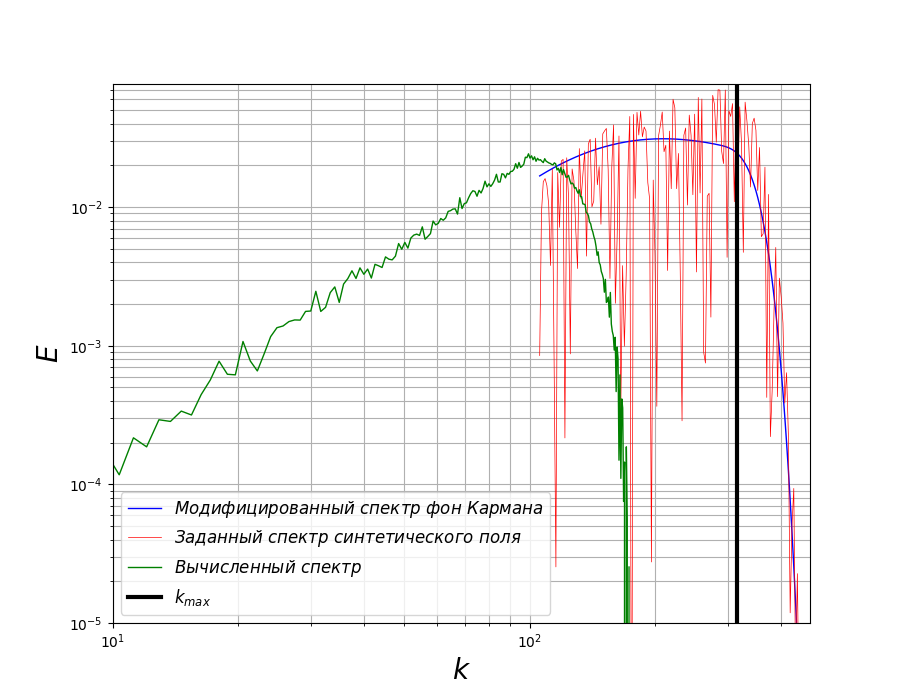
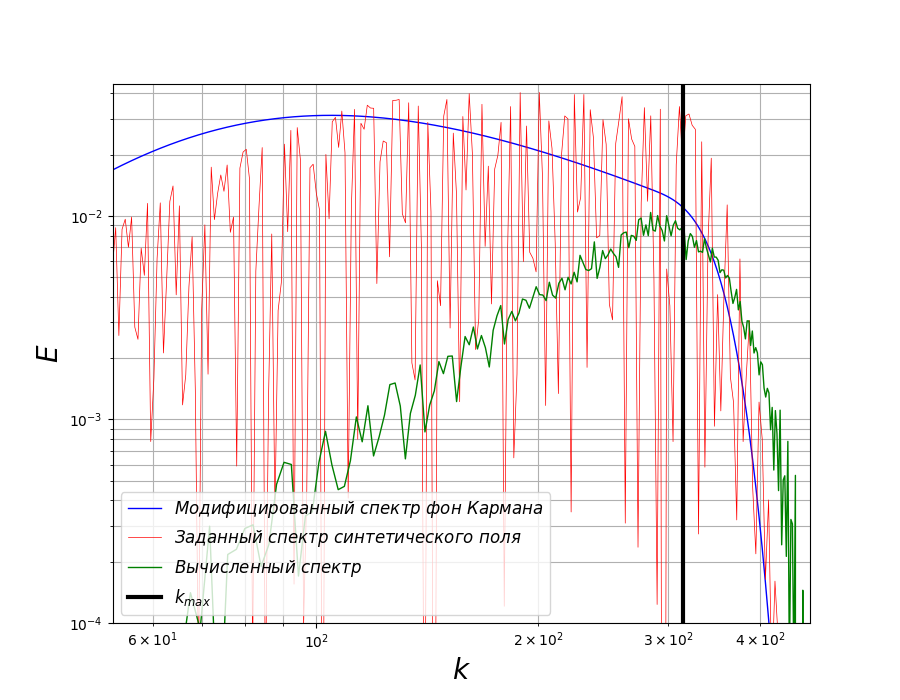
Correct wave number definition.

diff --git a/spectrum_lib.py b/spectrum_lib.py
@@ -3,8 +3,8 @@ from scipy.fftpack import fftn
 import logging
 import matplotlib.pyplot as plt
 import config
-from lib import get_k_arr, get_tau, get_von_karman_spectrum, get_amplitude_arr, get_d_vector_theta_and_phase, get_frequency, \
-    get_sigma_vector
+from lib import get_k_arr, get_tau, get_von_karman_spectrum, get_amplitude_arr, get_d_vector_theta_and_phase, \
+    get_frequency, get_sigma_vector
 
 logging.basicConfig(format='%(levelname)s: %(message)s', level=logging.DEBUG)
 
@@ -21,9 +21,9 @@ def read_velocity_file(filename):
 
 
 class SpatialSpectrum3d:
-    # TODO: разобраться с определением значений волновых чисел
     def __init__(self, i_cnt: int, j_cnt: int, k_cnt: int, grid_step: float, u_arr: np.ndarray,
-                 v_arr: np.ndarray, w_arr: np.ndarray, num_point: int):
+                 v_arr: np.ndarray, w_arr: np.ndarray, num_point: int, l_e: float =config.l_e,
+                 alpha: float = config.alpha):
         self.i_cnt = i_cnt
         self.j_cnt = j_cnt
         self.k_cnt = k_cnt
@@ -32,6 +32,9 @@ class SpatialSpectrum3d:
         self.v_arr = v_arr
         self.w_arr = w_arr
         self.num_point = num_point
+        self.l_e = l_e
+        self.alpha = alpha
+        self.l_cut = 2 * self.grid_step
         self.k_abs_arr = None
         self.energy_sum_arr = None
         self.energy_u_arr = None
@@ -44,7 +47,15 @@ class SpatialSpectrum3d:
         return result
 
     @classmethod
-    def _get_wave_number_array(cls, i_cnt: int, j_cnt: int, k_cnt: int, grid_step):
+    def _get_k_abs(cls, l_e: float, l_cut: float, alpha):
+        k_abs_arr = get_k_arr(l_e, l_cut, alpha)
+        k_abs_min = k_abs_arr.min()
+        k_abs_max = k_abs_arr.max()
+        return k_abs_min, k_abs_max
+
+    @classmethod
+    def _get_wave_number_array(cls, i_cnt: int, j_cnt: int, k_cnt: int, grid_step: float, k_abs_min: float,
+                               k_abs_max: float):
         logging.info('Wave number arrays calculating')
         x_size = grid_step * (i_cnt - 1)
         y_size = grid_step * (j_cnt - 1)
@@ -52,9 +63,14 @@ class SpatialSpectrum3d:
         result_i = np.zeros([k_cnt, j_cnt, i_cnt])
         result_j = np.zeros([k_cnt, j_cnt, i_cnt])
         result_k = np.zeros([k_cnt, j_cnt, i_cnt])
-        ki_arr = np.linspace(1 / x_size, 1 / grid_step, i_cnt)
-        kj_arr = np.linspace(1 / y_size, 1 / grid_step, j_cnt)
-        kk_arr = np.linspace(1 / z_size, 1 / grid_step, k_cnt)
+        k_max = k_abs_max / np.sqrt(3)
+        norm_coef = k_abs_min / np.sqrt(1 / x_size ** 2 + 1 / y_size ** 2 + 1 / z_size ** 2)
+        ki_min = norm_coef / x_size
+        kj_min = norm_coef / y_size
+        kk_min = norm_coef / z_size
+        ki_arr = np.linspace(ki_min, k_max, i_cnt)
+        kj_arr = np.linspace(kj_min, k_max, j_cnt)
+        kk_arr = np.linspace(kk_min, k_max, k_cnt)
         for k in range(k_cnt):
             for j in range(j_cnt):
                 for i in range(i_cnt):
@@ -66,7 +82,8 @@ class SpatialSpectrum3d:
     @classmethod
     def _get_energy(cls, k_abs_arr: np.ndarray, velocity_fourier_arr: np.ndarray,
                     wave_number_abs: float):
-        array_for_summation = 0.5 * (np.abs(velocity_fourier_arr) / len(velocity_fourier_arr) ** 3) ** 2
+        volume = velocity_fourier_arr.shape[0] * velocity_fourier_arr.shape[1] * velocity_fourier_arr.shape[2]
+        array_for_summation = 0.5 * (np.abs(velocity_fourier_arr) / volume) ** 2
         array_for_summation_filtered = np.abs(array_for_summation)[(k_abs_arr > wave_number_abs - 0.5) *
                                                                    (k_abs_arr < wave_number_abs + 0.5)]
         result = array_for_summation_filtered.sum()
@@ -87,7 +104,9 @@ class SpatialSpectrum3d:
         return energy_arr, k_arr_for_spectrum
 
     def compute_spectrum(self):
-        ki_arr, kj_arr, kk_arr = self._get_wave_number_array(self.i_cnt, self.j_cnt, self.k_cnt, self.grid_step)
+        k_abs_min, k_abs_max = self._get_k_abs(self.l_e, self.l_cut, self.alpha)
+        ki_arr, kj_arr, kk_arr = self._get_wave_number_array(self.i_cnt, self.j_cnt, self.k_cnt, self.grid_step,
+                                                             k_abs_min, k_abs_max)
         u_arr_3d = self._get_array_3d(self.u_arr, self.i_cnt, self.j_cnt, self.k_cnt)
         v_arr_3d = self._get_array_3d(self.v_arr, self.i_cnt, self.j_cnt, self.k_cnt)
         w_arr_3d = self._get_array_3d(self.w_arr, self.i_cnt, self.j_cnt, self.k_cnt)
@@ -100,7 +119,6 @@ class SpatialSpectrum3d:
 def plot_spectrum_with_predefined(k_arr, energy_arr, filename, l_cut, l_e, l_cut_min, l_e_max,
                                   viscosity=config.viscosity, dissipation_rate=config.dissipation_rate,
                                   alpha=config.alpha, u0=config.u0, r_vector=np.array([0., 0., 0.]), t=config.time):
-    # TODO: интервалы по осям
     logging.info('')
     logging.info('Plotting spectrum')
     plt.figure(figsize=(9, 7))
@@ -122,8 +140,8 @@ def plot_spectrum_with_predefined(k_arr, energy_arr, filename, l_cut, l_e, l_cut
     plt.plot(k_arr, energy_arr, color='green', lw=1, label=r'$Вычисленный\ спектр$')
     plt.plot([2 * np.pi / l_cut_min, 2 * np.pi / l_cut_min], [0, 2 * max(energy_arr_predef)], lw=3, color='black',
              label=r'$k_{max}$')
-    plt.ylim(10e-6, 1.1 * max(energy_arr_predef))
-    plt.xlim(10, max(k_arr_predef))
+    plt.ylim(10e-5, 1.1 * max(energy_arr_predef))
+    plt.xlim(min(k_arr_predef), max(k_arr_predef))
     plt.yscale('log')
     plt.xscale('log')
     plt.grid(which='both')

diff --git a/lib.py b/lib.py
@@ -193,7 +193,7 @@ class HomogeneousIsotropicTurbulenceGenerator:
         пульсациях и  завихренности в текстовых файлах.
     """
     def __init__(self, i_cnt: int, j_cnt: int, k_cnt: int, tec_filename, plot3d_filename, velocity_filename,
-                 grid_step, l_e, viscosity, dissipation_rate, alpha=0.01, u0=np.array([0., 0., 0.]), time=0.):
+                 grid_step, l_e, l_cut, viscosity, dissipation_rate, alpha=0.01, u0=np.array([0., 0., 0.]), time=0.):
         """
         :param i_cnt: количество узлов в направлении орта i
         :param j_cnt: количество узлов в направлении орта j
